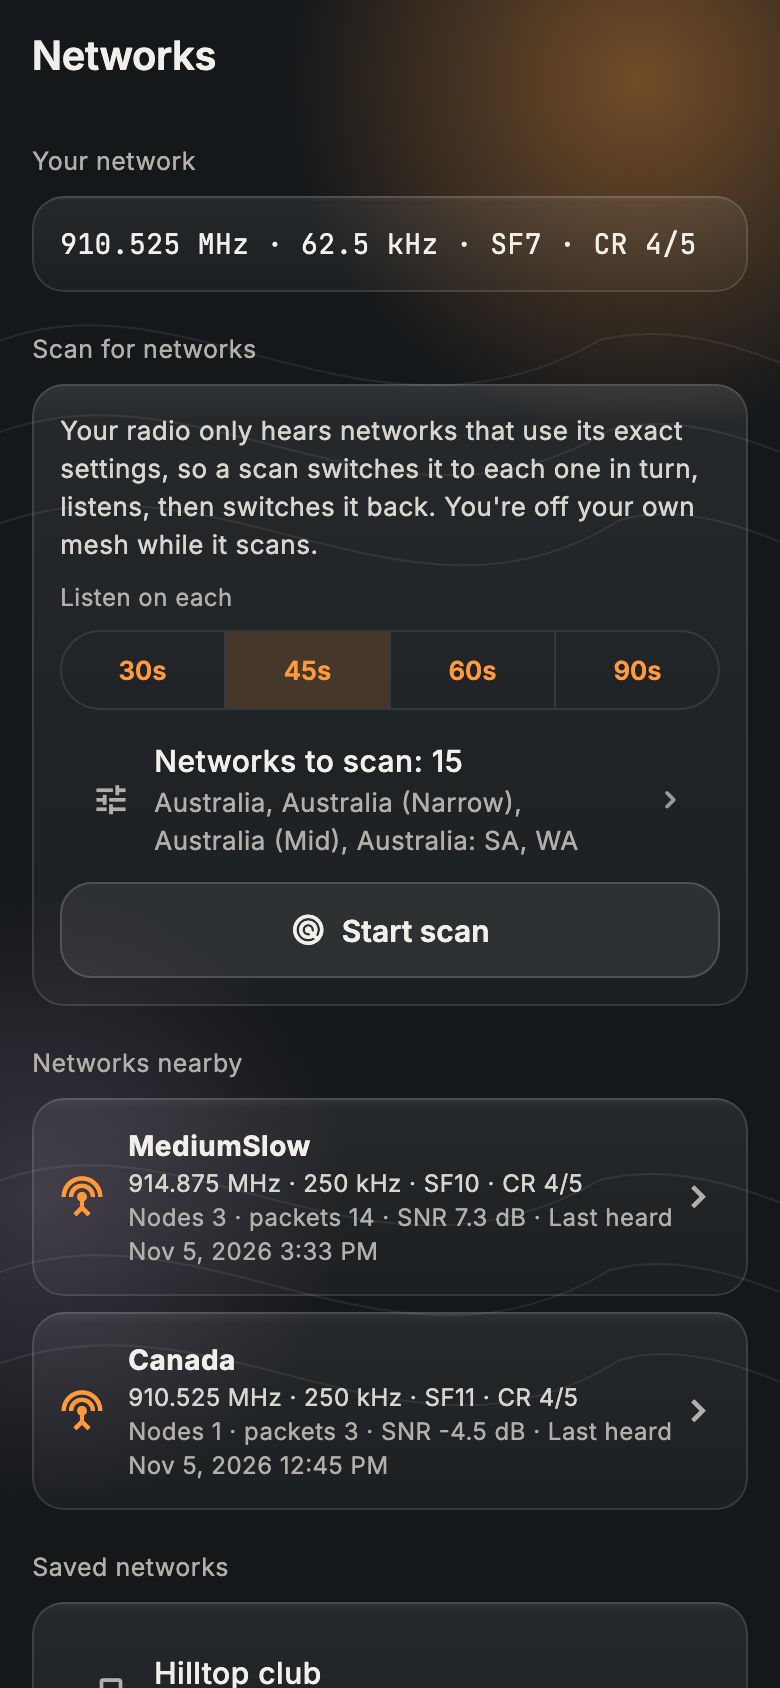
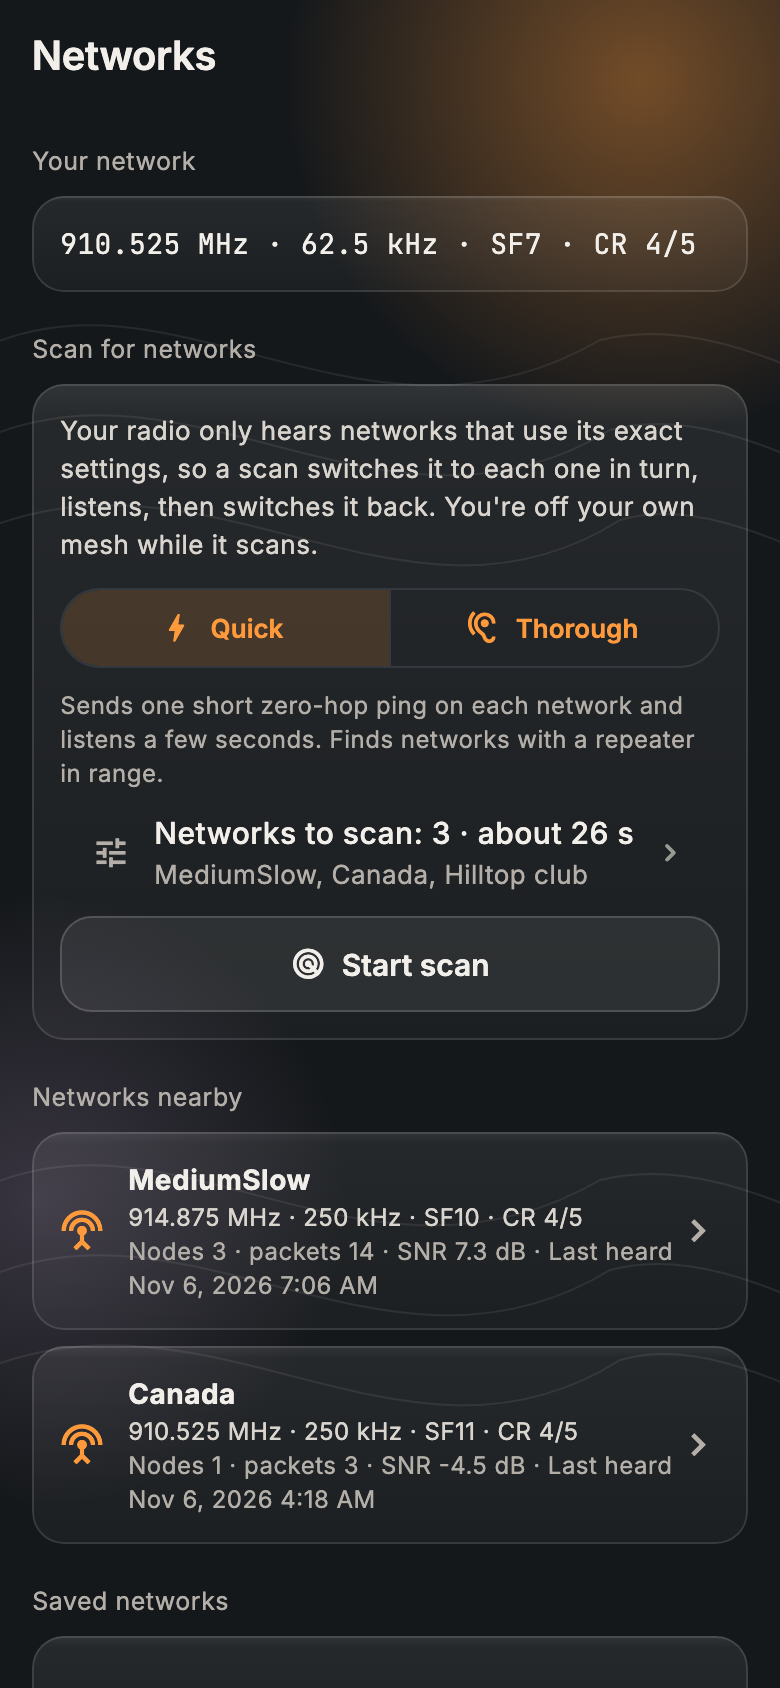
README: quick network scan (rc.30)

diff --git a/README.md b/README.md
@@ -63,7 +63,7 @@ NOTORYX Core turns your phone or Mac and a [MeshCore](https://meshcore.io/) radi
 - Live mesh map with **offline map packs**, and a button to jump to your position (phone GPS, or your radio's).
 - **Map telemetry:** battery, temperature, humidity or pressure badges on the map. Readings dim after an hour and hide after a day, and the map remembers your choice.
 - **Wardrive:** ping every 20 s to 2 min as you move and map which repeaters heard you, and how well, both ways. Pings use your phone's GPS, the map follows you, and drives are saved.
-- **Network scan** (More → Networks): find MeshCore networks nearby. A radio only hears networks on its exact settings, so a scan switches yours to each preset in turn (the ones in your band by default, plus networks you've saved), listens for 30–90 s, and switches back. Each network heard is logged with the time, place, signal and the node names from its adverts, so you can map it, export CSV or GPX, save it, or join it with one tap. You're off your own mesh while it scans, so it won't run during an SOS or a trip. New in rc.28 and not yet tested on a wide range of radios.
+- **Network scan** (More → Networks): find MeshCore networks nearby. A radio only hears networks on its exact settings, so a scan switches yours to each network in turn and switches back. **Quick** (the default) sends one zero-hop discover ping on each and listens about 8 s, so a scan takes well under a minute; **Thorough** only listens, 30–90 s each, and also finds networks without a repeater in range. Each network heard is logged with the time, place, signal and its nodes, so you can map it, export CSV or GPX, save it, or join it with one tap. You're off your own mesh while it scans, so it won't run during an SOS or a trip.
 - **Path graph:** every path you've heard, drawn as flows from far repeaters to you, with the busiest repeaters ranked. Short 1-byte hops are matched to a specific repeater using longer paths.
 - **Route intelligence** that handles 1-, 2- and 3-byte hop IDs, ranks the best repeaters you hear directly, plus path discovery and traces.
 - **Observer reach:** see which online observers heard your message, how many hops it took and the best signal. Unknown repeaters can be named online. Both use a CoreScope analyzer you choose.
